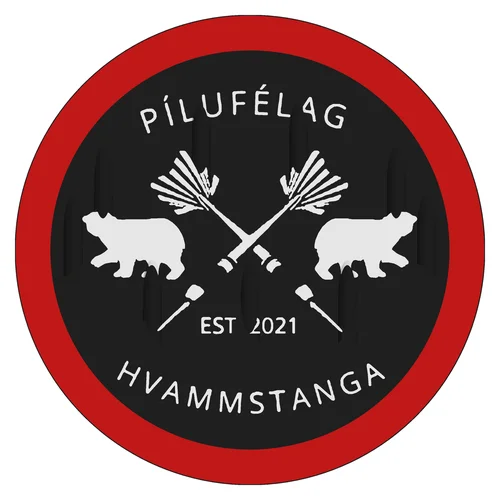
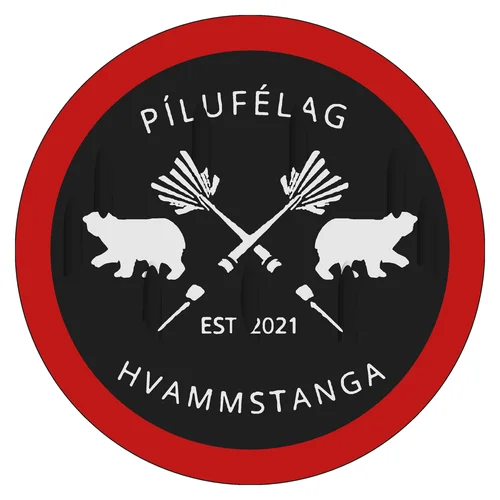
Merge club dart holders into one page and drop QR codes
One "Píluhaldari fyrir pílufélög" page with PFR as the default option
and Hvammstanga, PFF and the new PFH holder as options. The old
per-club pages redirect to it, the QR codes are removed, and the
Hvammstanga and PFF renders are fixed (colour parts were mirrored).

diff --git a/content/verslun/darts/piluhaldari.md b/content/verslun/darts/piluhaldari.md
@@ -22,20 +22,10 @@ images:
 ## Sérútgáfa fyrir pílufélög
 
 <div style="display:grid; grid-template-columns: repeat(auto-fit, minmax(240px, 1fr)); gap:1.25rem; align-items:center; margin: 1rem 0 2rem;">
-  <a href="/images/piluhaldari/07-pfr-felag-full.webp" target="_blank" rel="noopener"><img src="/images/piluhaldari/07-pfr-felag.webp" alt="Píluhaldari í 7 litum með merki Pílukastfélags Reykjavíkur (PFR)" loading="lazy" style="width:100%; max-width:380px; border-radius:12px;"></a>
+  <a href="/verslun/darts/piluhaldari-pilufelog/"><img src="/images/piluhaldari/07-pfr-felag.webp" alt="Píluhaldari með merki Pílukastfélags Reykjavíkur (PFR)" loading="lazy" style="width:100%; max-width:380px; border-radius:12px;"></a>
   <div>
-    <p>Píluhaldari prentaður í <strong>7 litum</strong> fyrir <strong>Pílukastfélag Reykjavíkur (PFR)</strong> — með nafni og merki félagsins, lárviðarsveig og PFR borða.</p>
-    <p><a class="home-link" href="/verslun/darts/pfr-piluhaldari/">Panta PFR píluhaldara · 6.900 kr. →</a></p>
-  </div>
-  <a href="/images/piluhaldari/09-hvammstanga-felag.webp" target="_blank" rel="noopener"><img src="/images/piluhaldari/09-hvammstanga-felag-sq.webp" alt="Píluhaldari með merki Pílufélags Hvammstanga: rauð brún, ísbirnir og krosslagðar pílur" loading="lazy" style="width:100%; max-width:380px; border-radius:12px;"></a>
-  <div>
-    <p>Píluhaldari í <strong>3 litum</strong> fyrir <strong>Pílufélag Hvammstanga</strong> — með ísbjörnunum, krosslögðu pílunum og rauðu brúninni úr merki félagsins.</p>
-    <p><a class="home-link" href="/verslun/darts/hvammstanga-piluhaldari/">Panta Hvammstanga píluhaldara · 6.900 kr. →</a></p>
-  </div>
-  <a href="/images/piluhaldari/10-pff-felag.webp" target="_blank" rel="noopener"><img src="/images/piluhaldari/10-pff-felag-sq.webp" alt="Skjaldarlaga píluhaldari með merki Pílukastfélags Fjarðabyggðar: rauðir PFF stafir og pílukastspjald" loading="lazy" style="width:100%; max-width:380px; border-radius:12px;"></a>
-  <div>
-    <p>Píluhaldari í <strong>4 litum</strong> fyrir <strong>Pílukastfélag Fjarðabyggðar (PFF)</strong> — í laginu eins og skjöldur félagsins, með rauðu PFF stöfunum og pílukastspjaldinu.</p>
-    <p><a class="home-link" href="/verslun/darts/pff-piluhaldari/">Panta PFF píluhaldara · 6.900 kr. →</a></p>
+    <p>Píluhaldari með merki pílufélagsins, prentaður í litum félagsins: <strong>PFR</strong>, <strong>Pílufélag Hvammstanga</strong>, <strong>PFF</strong> og <strong>PFH</strong>.</p>
+    <p><a class="home-link" href="/verslun/darts/piluhaldari-pilufelog/">Píluhaldari fyrir pílufélög · 6.900 kr. →</a></p>
     <p>Viltu útgáfu fyrir annað félag, lið eða fyrirtæki? Sendu merkið á <a href="mailto:bensi@hitt.is">bensi@hitt.is</a> og ég geri tilboð.</p>
   </div>
 </div>

diff --git a/content/verslun/darts/piluhaldari-pilufelog.md b/content/verslun/darts/piluhaldari-pilufelog.md
@@ -1,0 +1,25 @@
+---
+title: "Píluhaldari fyrir pílufélög"
+description: "Píluhaldari á vegg með merki pílufélagsins — PFR, Pílufélag Hvammstanga, PFF og PFH. 6.900 kr."
+toc: false
+layout: wide
+aliases:
+  - /verslun/darts/pfr-piluhaldari/
+  - /verslun/darts/hvammstanga-piluhaldari/
+  - /verslun/darts/pff-piluhaldari/
+images:
+  - /images/piluhaldari/07-pfr-felag-full.webp
+---
+
+<div style="text-align:center; max-width:760px; margin:0 auto 1.5rem;">
+  <p style="font-size:clamp(1.2rem, 3vw, 1.6rem); font-weight:700; line-height:1.35; margin-bottom:.5rem;">Hafðu pílurnar á sínum stað — í litum félagsins.</p>
+  <p style="font-size:1.1rem; margin:0;">Veggfestur píluhaldari með merki pílufélagsins, prentaður með litunum í plastinu. Veldu félagið þitt.</p>
+</div>
+
+<div id="panta"></div>
+
+{{< buy group="piluhaldari-pilufelog" >}}
+
+<small style="display:block; text-align:center; opacity:.7; margin-top:1rem;">PFR og Hvammstanga: 9 pílur, Ø25 cm · PFF: 9 pílur, 26 × 31 cm · PFH: 8 pílur, Ø25 cm · oddar allt að 50 mm · hengt á 2 skrúfur · pílur fylgja ekki.</small>
+
+<p style="text-align:center; margin-top:2rem;">Viltu útgáfu fyrir þitt félag, lið eða fyrirtæki? Sendu merkið á <a href="mailto:bensi@hitt.is">bensi@hitt.is</a> og ég geri tilboð.</p>
